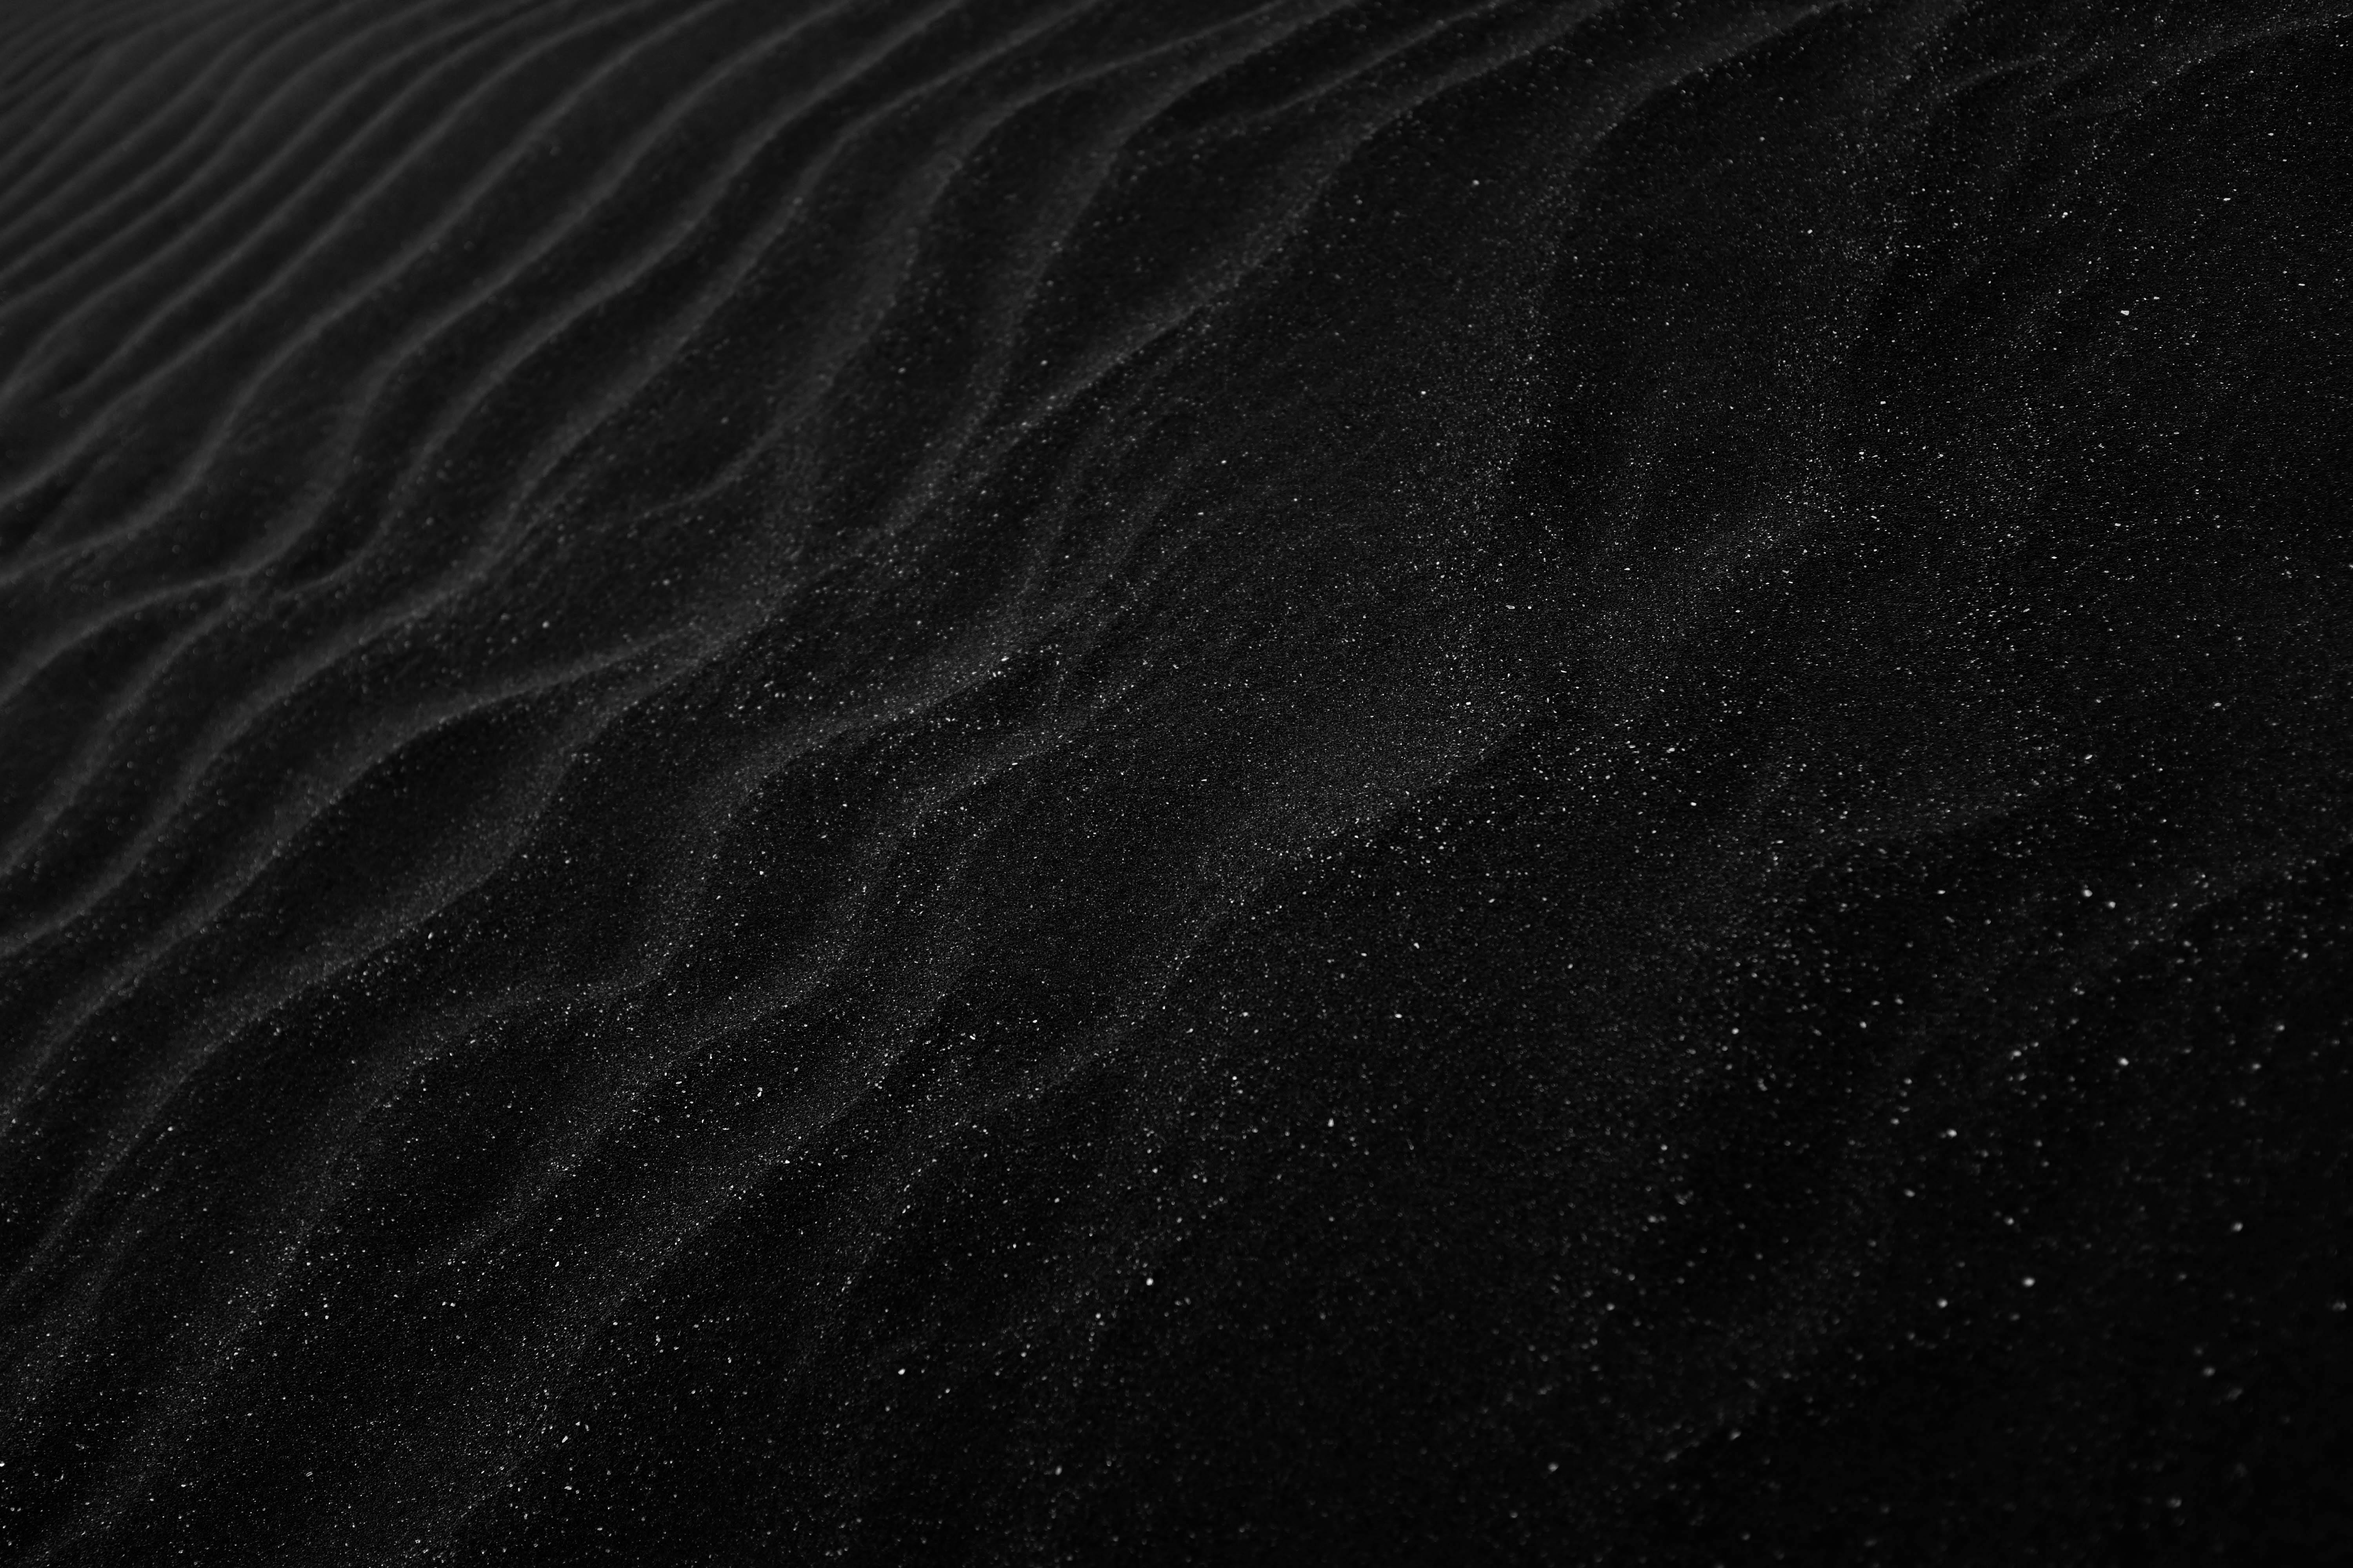
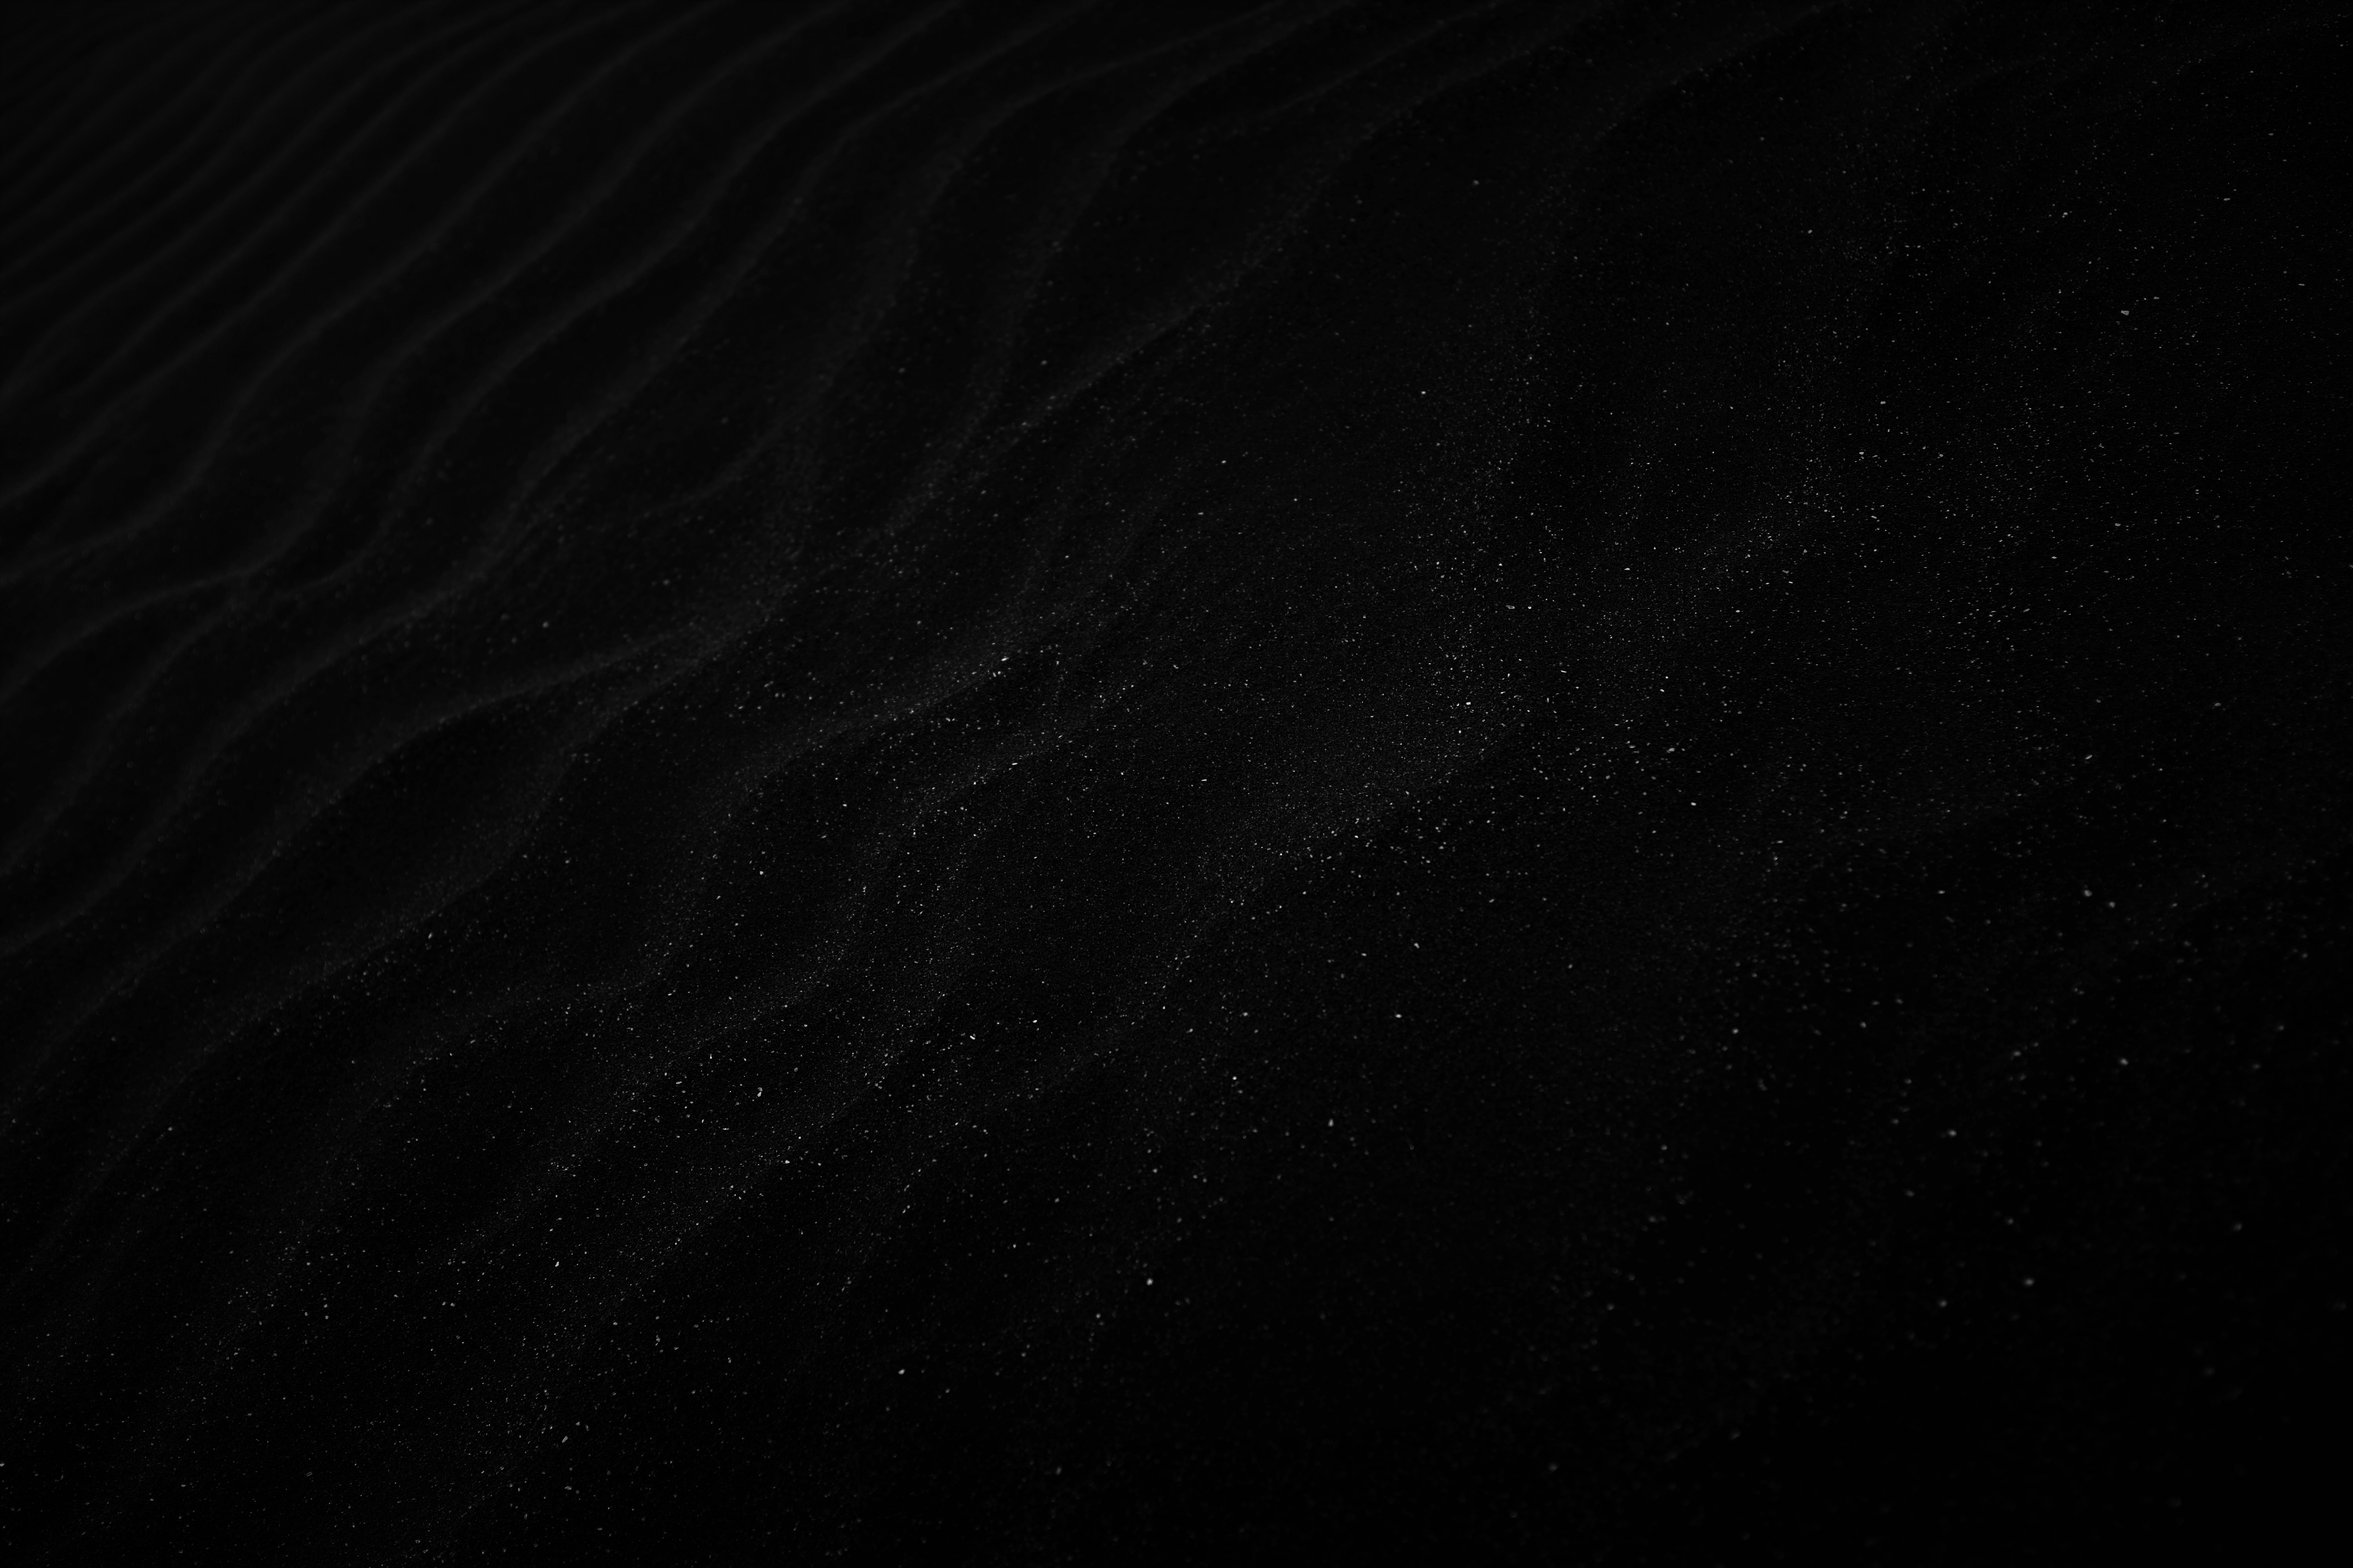
Better presentation

diff --git a/todos.js b/todos.js
@@ -1,6 +1,3 @@
-let appService = document.getElementById("appBackground");
-appService.style.display = "block";
-appService.style.filter = "brightness(20%)"
 
 
 setTimeout(()=>{startPrompt()},200);
@@ -121,5 +118,16 @@ ${finalListN}
     prompt(`Are you sure you want to quit?
 
                                 (press "Enter" to confirm)`)
-    appService.style.display = "none";
+
+    var buttonsContainerJ = document.getElementById("buttonsContainer");              
+    var restartButton = document.createElement("button");                           
+    buttonsContainerJ.appendChild(restartButton);
+    restartButton.style.scale = "1.6";
+    restartButton.textContent = "Restart";
+    restartButton.addEventListener("click", function() {
+        buttonsContainerJ.removeChild(restartButton);
+        startPrompt();
+    })
+    
+
 }

diff --git a/index.html b/index.html
@@ -4,15 +4,16 @@
     <meta charset="UTF-8">
     <meta name="viewport" content="width=device-width, initial-scale=1.0">
     <title>Todo List</title>
+    <script src="todos.js"></script>
 </head>
-<body>
-    <div id="appBackground">
-        <img src="./pexels-adrien-olichon-1257089-2387793.jpg"
-        width="2000vw"
-        height="1000vh">
+<body style= "background-image: url(./pexels-adrien-olichon-1257089-2387793.jpg); background-size: cover;">
+    <div id="buttonsContainer" 
+    style="display: flex;
+    justify-content: center;
+    align-items: center;
+    height: 100vh;">
     </div>
-    
-<script src="todos.js"></script>
+
 </body>
 
 </html>
